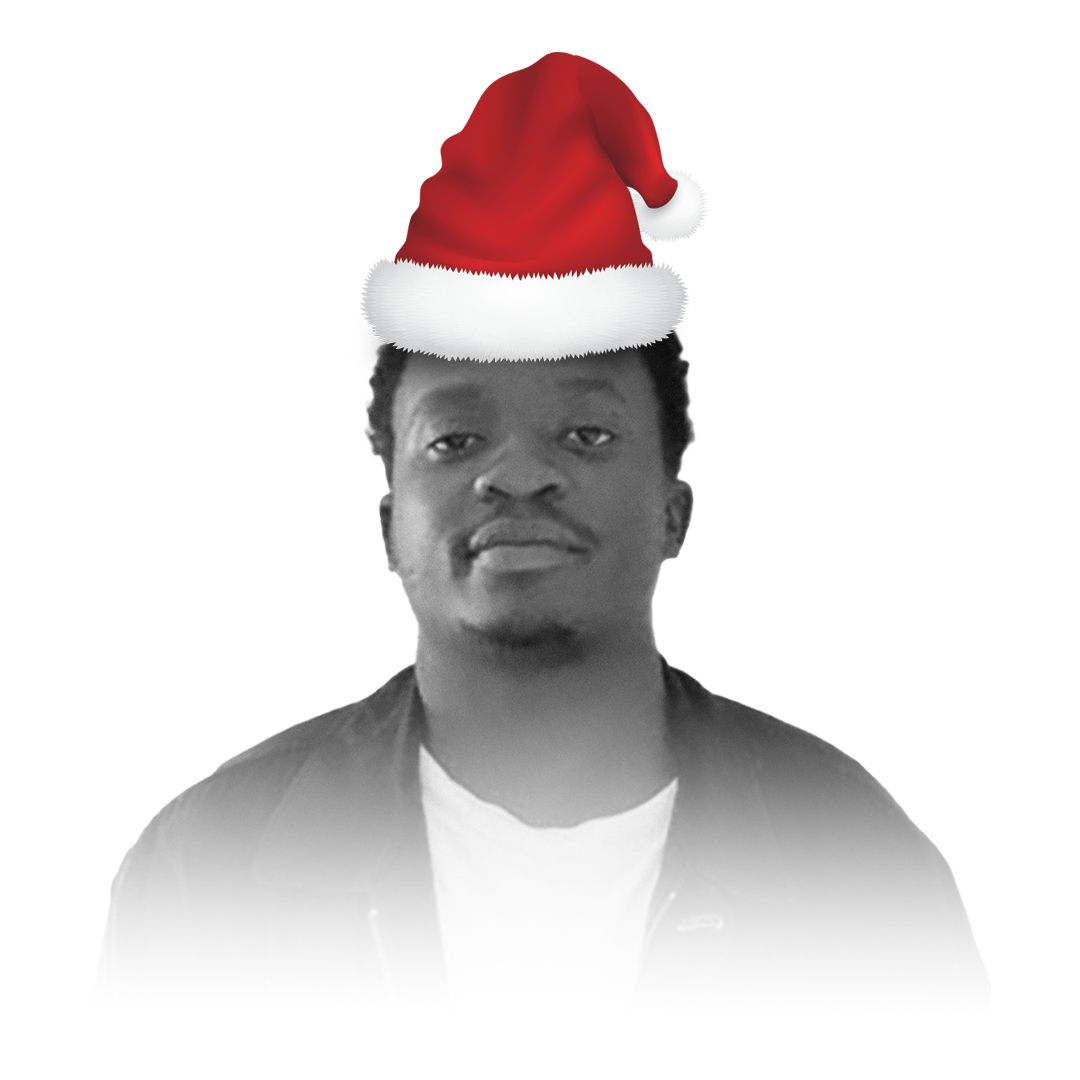
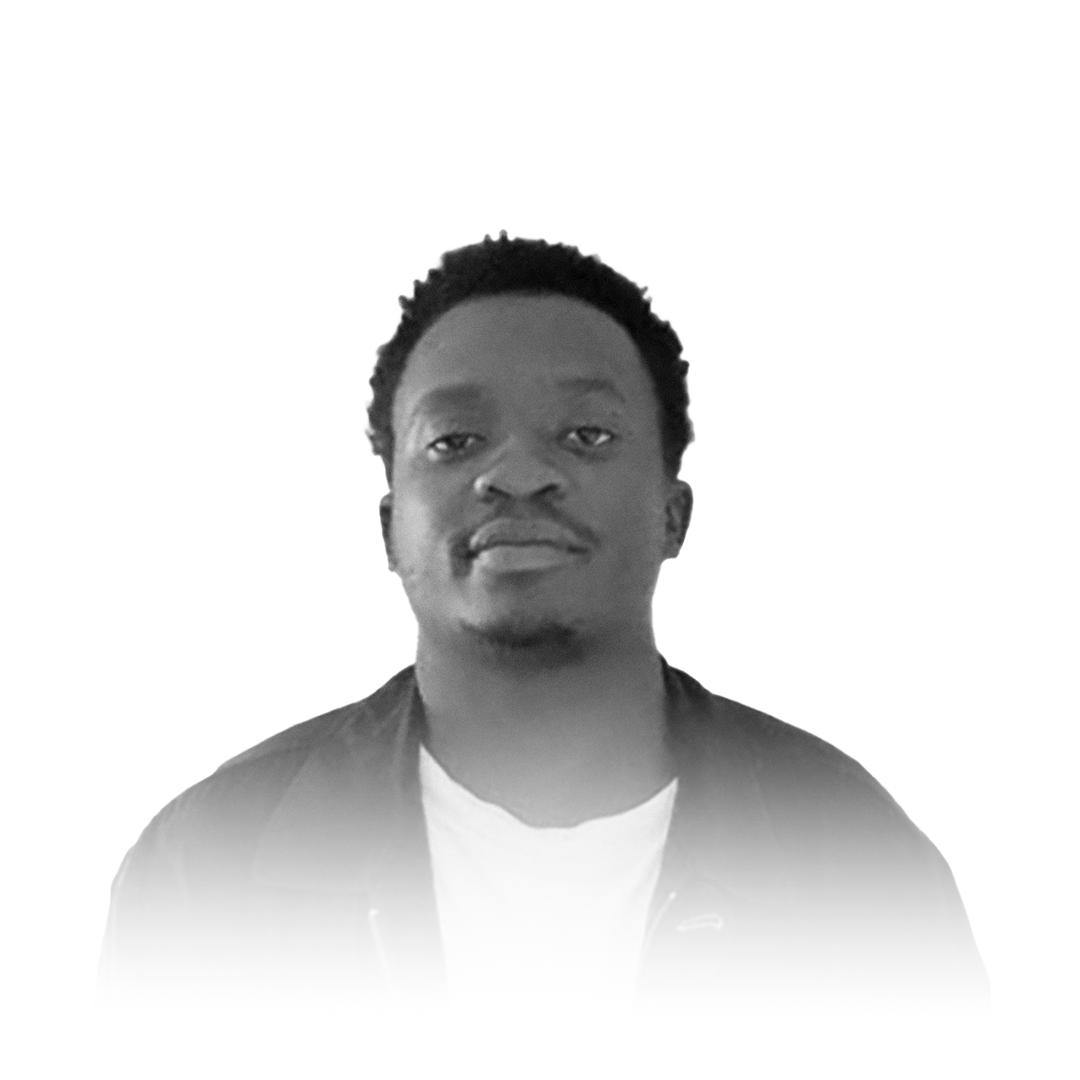
refactor: Back to default

Changed region(s): [[0.3361, 0.0306, 0.6417, 0.3667]]

diff --git a/components/section/homepage/heroText.jsx b/components/section/homepage/heroText.jsx
@@ -1,17 +1,13 @@
 import TextSpan from './textspan'
 
-export default function HeroTexts({ onMouseEnter, onMouseLeave, isHoliday, holidayColor }) {
+export default function HeroTexts({ onMouseEnter, onMouseLeave }) {
   const firstName = "Albert".split("");
   const lastName = "Mwasisoba".split("");
 
-  const firstText = isHoliday ? "Merry".split("") : "Albert".split("");
-  const lastText = isHoliday ? "Christmas".split("") : "Mwasisoba".split("");
-  const colorClass = isHoliday ? holidayColor : "text-gray-500";
-
   return (
-    <div className={`font-neue text-center md:text-left z-30 select-none ${colorClass}`}>
-        <h1 className="md:text-3xl lg:text-4xl text-gray-500 pb-4">{ isHoliday ? "I wish you" : "Hello, I'm" }</h1>
-        {firstText.map((letter, index) => {
+    <div className={`font-neue text-center md:text-left z-30 select-none`}>
+        <h1 className="md:text-3xl lg:text-4xl text-gray-500 pb-4">{ "Hello, I'm" }</h1>
+        {firstName.map((letter, index) => {
           return (
             <TextSpan key={index} onMouseEnter={onMouseEnter} onMouseLeave={onMouseLeave}>
               {letter === " " ? "\n" : letter}
@@ -19,7 +15,7 @@ export default function HeroTexts({ onMouseEnter, onMouseLeave, isHoliday, holid
           )
         })}
         <br/>
-        {lastText.map((letter, index) => {
+        {lastName.map((letter, index) => {
           return (
             <TextSpan key={index} onMouseEnter={onMouseEnter} onMouseLeave={onMouseLeave}>
               {letter === " " ? "\n" : letter}
@@ -27,19 +23,11 @@ export default function HeroTexts({ onMouseEnter, onMouseLeave, isHoliday, holid
           )
         })}
         <p className="md:text-xl text-white mb-20 pb-8 capitalize">
-            { isHoliday ? (
-              <>
-                <span className="font-bold">And A </span>
-                <span className="font-bold">Happy </span>
-                <span className="font-bold">New Year </span>
-              </>
-            ) : (
-              <>
-                <span className="font-bold">Software </span>
-                <span className="font-bold">developer</span> &{" "}
-                <span className="font-bold">Graphics designer.</span>
-              </>
-            )} 
+          <>
+            <span className="font-bold">Software </span>
+            <span className="font-bold">developer</span> &{" "}
+            <span className="font-bold">Graphics designer.</span>
+          </> 
         </p>
     </div>
   )

diff --git a/components/section/homepage/index.jsx b/components/section/homepage/index.jsx
@@ -13,10 +13,6 @@ function Homepage() {
 
   const [cursorVariants, setCursorVariants] = useState("default");
 
-  const [ isHoliday, setIsHoliday] = useState(false);
-
-  
-
   useEffect(() => {
     const mouseMove = e => {
       setMousePosition({
@@ -48,12 +44,10 @@ function Homepage() {
   }
 
   const textEnter = () => {
-    setIsHoliday(true);
     setCursorVariants("text")
   };
 
   const textLeave = () => {
-    setIsHoliday(false);
     setCursorVariants("default")
   };
 
@@ -71,7 +65,6 @@ function Homepage() {
                 <HeroTexts 
                   onMouseEnter={textEnter} 
                   onMouseLeave={textLeave}
-                  isHoliday={isHoliday}
                   holidayColor="text-red-500"
                 />
                 <AlbertImage/>

diff --git a/components/section/homepage/textspan.jsx b/components/section/homepage/textspan.jsx
@@ -33,7 +33,7 @@ function TextSpan({children, onMouseEnter, onMouseLeave}) {
                         rubberBand()
                 }}
                 onAnimationComplete={() => setIsplaying(false)}
-                className={"select-none inline-block font-iskry max-w-4xl text-white text-4xl md:text-5xl lg:text-6xl xl:text-7xl font-bold"}
+                className={"select-none inline-block font-iskry max-w-4xl text-white text-5xl md:text-5xl lg:text-6xl xl:text-7xl font-bold"}
                 onMouseEnter={onMouseEnter}
                 onMouseLeave={onMouseLeave}
             >
